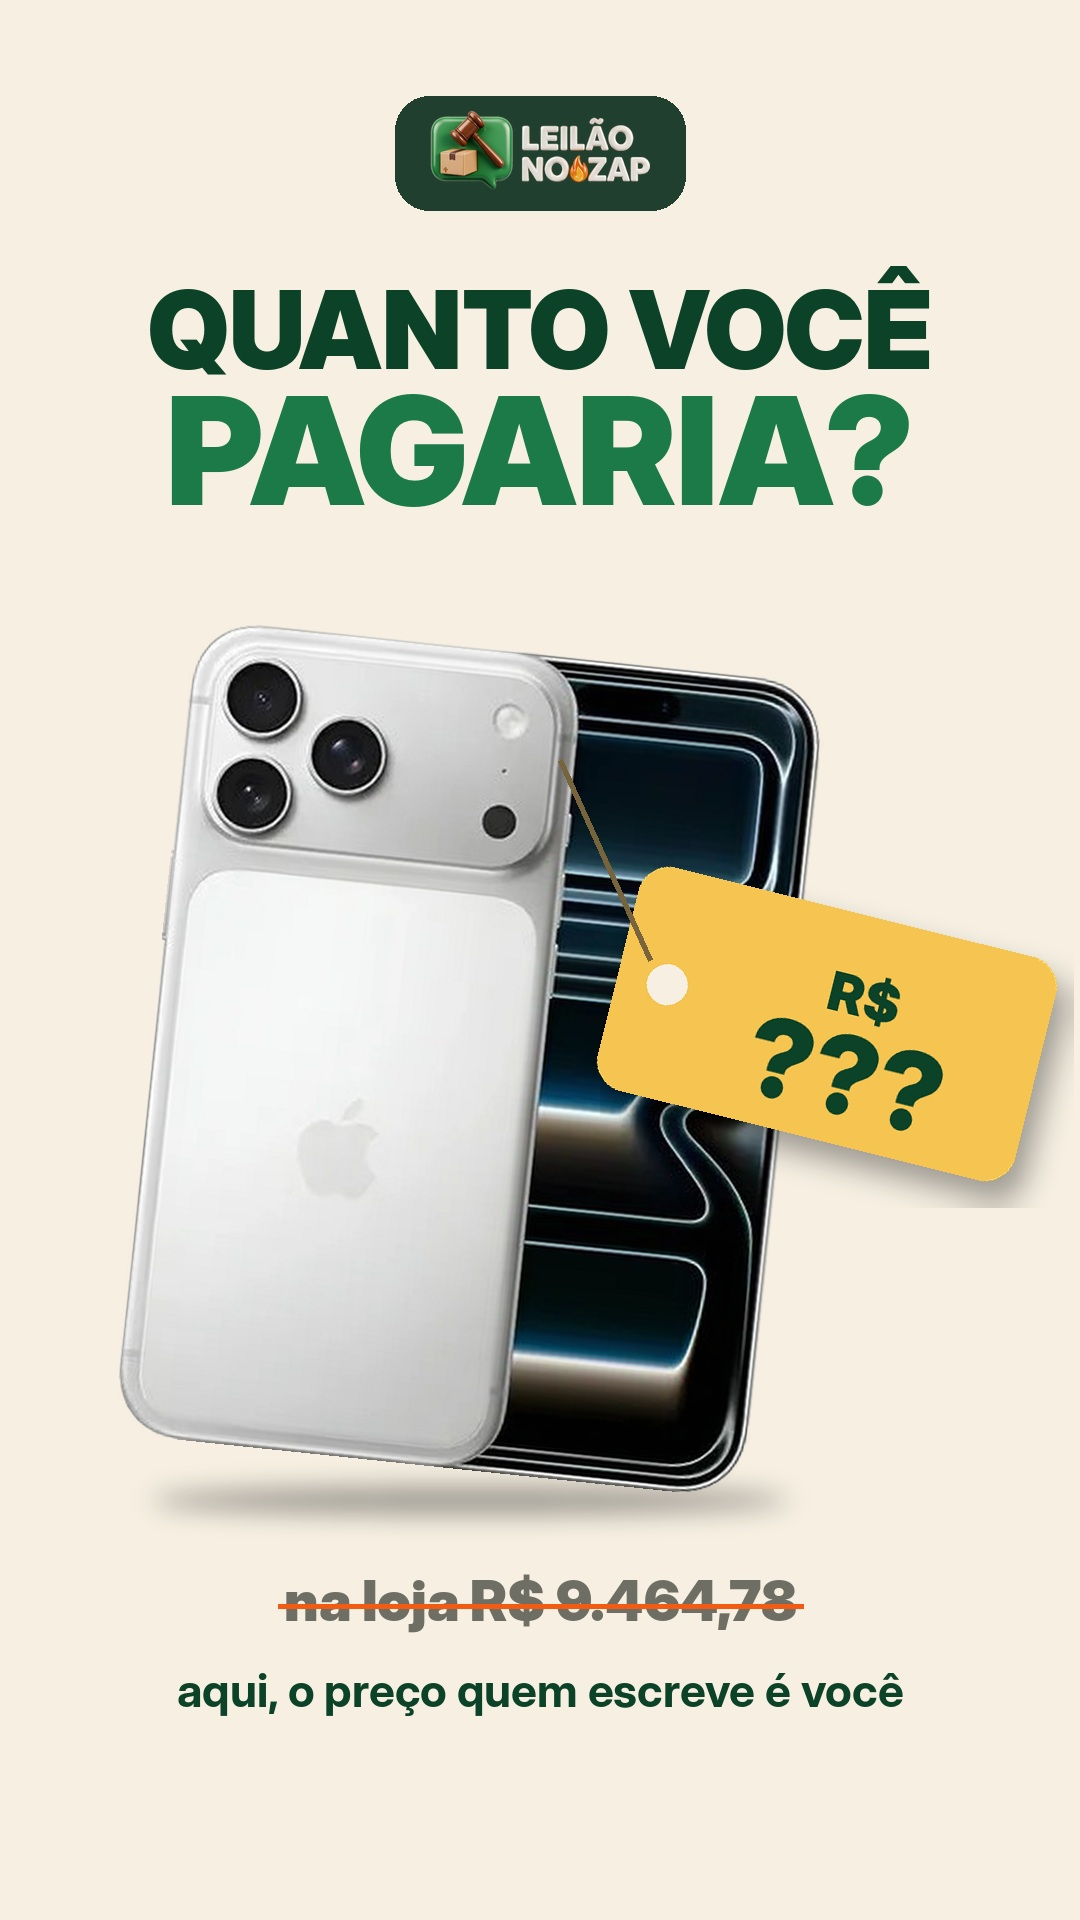
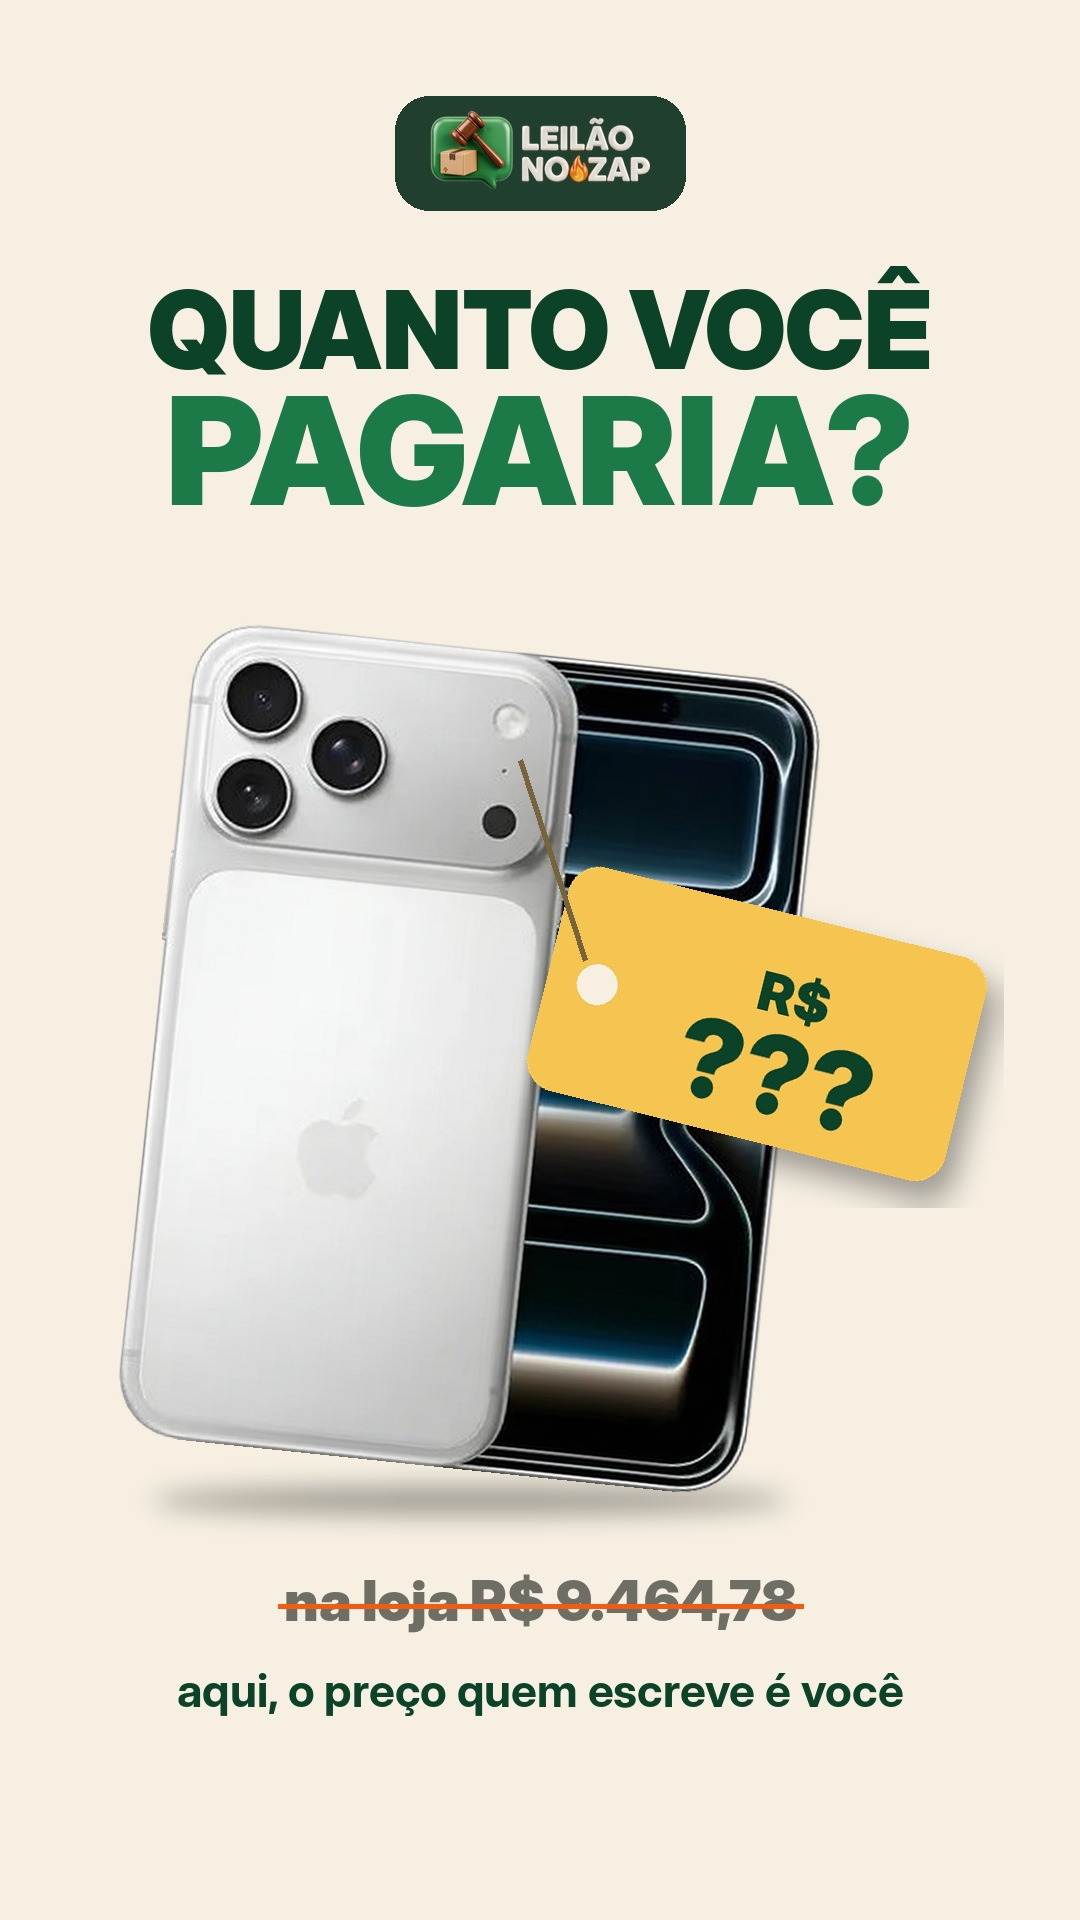
Arte das 14h (Quanto você pagaria?) com etiqueta afastada da borda
Claude-Session: https://claude.ai/code/session_01JihU9VfVTYTrMqQpApFEjH

Changed region(s): [[0.4889, 0.4062, 1.0, 0.6562]]

diff --git a/marketing/semana-2026-10-28/fonte/campanha_iphone.py b/marketing/semana-2026-10-28/fonte/campanha_iphone.py
@@ -129,8 +129,8 @@ def s4():
     e = Image.new('RGBA', (430, 230)); d = ImageDraw.Draw(e); d.rounded_rectangle((0, 0, 429, 229), 30, fill=OURO); d.ellipse((30, 95, 70, 135), fill=AREIA)
     d.text((245, 80), 'R$', font=F('Black', 54), fill=FLOR, anchor='mm'); d.text((245, 160), '???', font=F('Black', 110), fill=FLOR, anchor='mm')
     e = e.rotate(-14, expand=True, resample=Image.BICUBIC); s = Image.new('RGBA', e.size); s.putalpha(e.split()[-1].point(lambda v: 90 if v else 0))
-    b.alpha_composite(s.filter(ImageFilter.GaussianBlur(14)), (600, 880)); b.alpha_composite(e, (590, 860))
-    d = ImageDraw.Draw(b); d.line((560, 760, 650, 960), fill=(120, 100, 60), width=5)
+    b.alpha_composite(s.filter(ImageFilter.GaussianBlur(14)), (530, 880)); b.alpha_composite(e, (520, 860))
+    d = ImageDraw.Draw(b); d.line((520, 760, 585, 960), fill=(120, 100, 60), width=5)
     riscar(b, (W / 2, 1600), f'na loja {LJ}', F('Black', 56), (110, 110, 100))
     T(b, (W / 2, 1690), 'aqui, o preço quem escreve é você', F('Bold', 46), FLOR, somb=0); sv(b, 'S04-14h-quanto-voce-pagaria')
 
